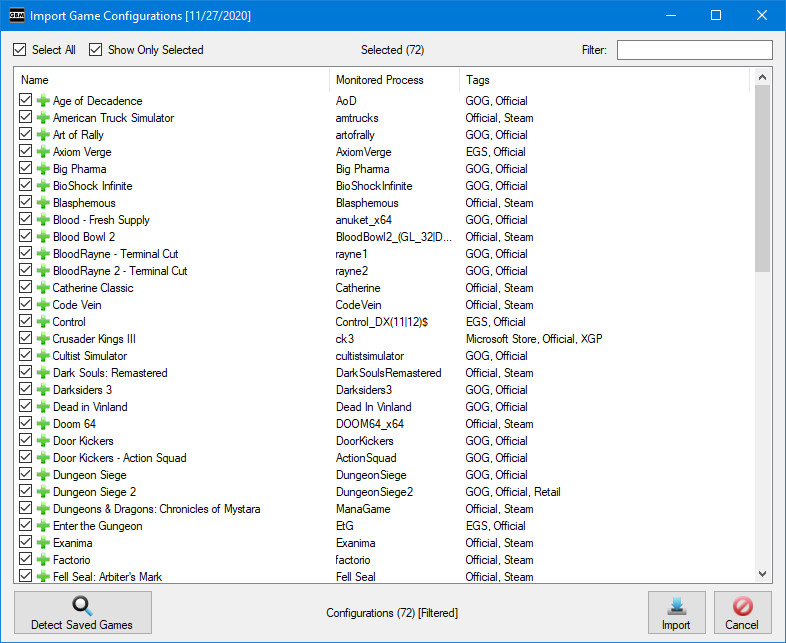
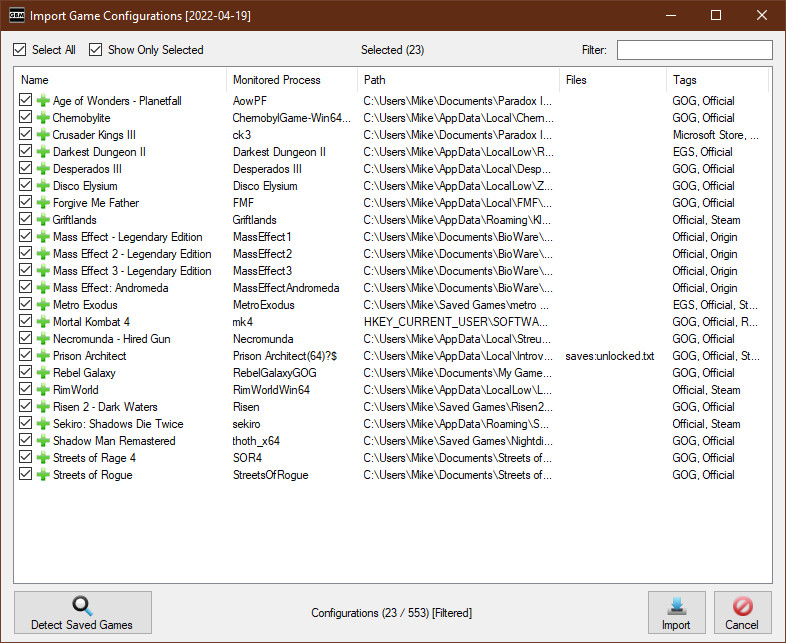
Various manual updates

diff --git a/manual.html b/manual.html
@@ -626,13 +626,15 @@
           <div class="pageSectionContent">            
             <p>Importing game configurations is done from the File menu, system tray menu, or the <a href="#gamemanager">Game Manager</a>.</p>
             <p>You can import pre-made backup configurations from the <a href="GBM_Official.xml">official list</a> or an XML file exported from GBM.</p>
-            <p>You can also import <a href="#ludusavi">unofficial configurations</a> from the primary <a href="https://github.com/mtkennerly/ludusavi-manifest">Ludusavi Manifest</a> or any file using the Ludusavi structure.</p>
+            <p>You can import <a href="#ludusavi">unofficial configurations</a> from the primary <a href="https://github.com/mtkennerly/ludusavi-manifest">Ludusavi Manifest</a> or any file using the Ludusavi structure.</p>
+            <p>The information displayed on the import window will slightly differ depending on the type of import selected.</p>
             <img class="manual" src="images/manual/manual_16.jpg" width="786" height="643" alt="Import" />
             <ul>
-              <li>The import window detects saved games currently on your PC and will automatically select valid configurations by default.
+              <li>The import window detects saved games currently on your PC and will display only detected configurations by default.
                 <ul>
                   <li>You can run this process again using the "Detect Saved Games" button.</li>
-                  <li>Saved games that are stored in a location relative to the game's installation folder will not be automatically detected.</li>
+                  <li>Configurations that store saved games in a location relative to the game's installation folder cannot be automatically detected.</li>
+                  <li>Configurations that use <a href="#storevariables">store variables</a> (Ex. Steam Cloud) will not be detected or offered for import if the required store variables aren't available.</li>
                 </ul>                
               </li>
               <li>The import window can display and auto-detect games you may have already configured.
@@ -685,6 +687,7 @@
             </ul>
             <p>The Ludusavi manifest gives you access to thousands of saved game backup configurations, but there are limitations and other possible issues outlined below.</p>
             <p>In general, you'll always want to use official GBM configurations when possible, but configurations imported from the Ludusavi Manifest are a perfect starting point for games missing from the official list.</p>
+            <img class="manual" src="images/manual/manual_41.jpg" width="786" height="643" alt="Ludusavi Import" />
             <h3>Limitations and Issues</h3>
             <ul>
               <li>GBM cannot detect game sessions and automatically backup saved games using these configurations.
@@ -712,7 +715,8 @@
             </ul>
             <h3>General Information</h3>
             <p>Tags are automatically added to these configurations to help identify the type of configuration and store.</p>
-            <p>There are some limited filter options when importing from a Ludusavi Manifest.</p>
+            <img class="manual" src="images/manual/manual_40.jpg" width="226" height="253" alt="Ludusavi Options" /><br />
+            <p>There are some limited filter options when importing from a Ludusavi Manifest.</p>            
             <ul>
               <li>You can choose to include or exclude configurations that backup "Saved Games" or only "Configuration Files".</li>
               <li>In Linux, you can choose to include or exclude configurations based on "Operating System".</li>
